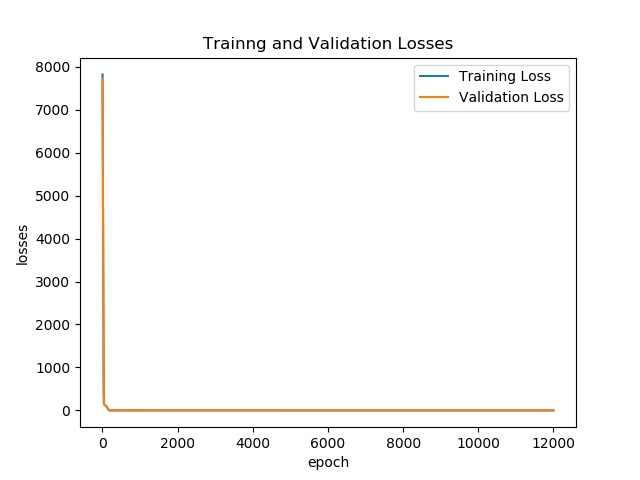
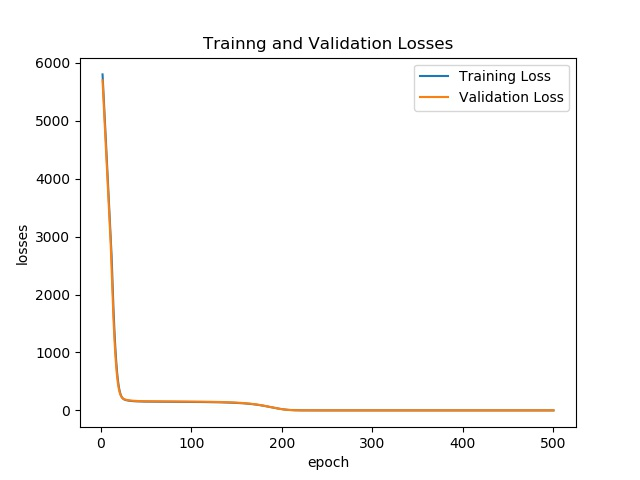
use torch rand() for random init (dont ask why!)

diff --git a/TCN/prey_pred_model/prey_pred_data.py b/TCN/prey_pred_model/prey_pred_data.py
@@ -1,6 +1,7 @@
 import math as m
 import numpy as np
 from scipy.integrate import odeint
+import torch
 
 
 def dfunc(y, t, a=0.25, b=0.12, c=0.0025, d=0.0013):
@@ -53,19 +54,14 @@ def prey_pred_data_randinit(examples, seq_length, yinit=[80, 50], t_range=(0.0, 
     u_max = 100
 
     for i in range(batch_no):
-        y0, y1 = u_min + (u_max-u_min)*np.random.rand(1), u_min + \
-            (u_max-u_min)*np.random.rand(1)
-        batch_data = prey_pred_data_constinit(batch_samples, seq_length, yinit=[
-                                    y0.item(), y1.item()], add_dt=add_dt)
+        yinit = [ u_min + (u_max-u_min)*torch.rand(1), u_min + (u_max-u_min)*torch.rand(1) ]
+        batch_data = prey_pred_data_constinit(batch_samples, seq_length, yinit=yinit, add_dt=add_dt)
         # Concatenate X, y output from prey_pred_data 
         batch_data = np.concatenate(
             (batch_data[0], batch_data[1].reshape(batch_samples, 2, 1)), axis=2)
         full_data[batch_samples*i:(batch_samples*(i+1))] = batch_data
     if examples % batch_no:
-        y0, y1 = u_min + (u_max-u_min)*np.random.rand(1), u_min + \
-            (u_max-u_min)*np.random.rand(1)
-        batch_data = prey_pred_data_constinit(
-            (examples % batch_no), seq_length, yinit=[y0.item(), y1.item()], add_dt=add_dt)
+        batch_data = prey_pred_data_constinit((examples % batch_no), seq_length, yinit=yinit, add_dt=add_dt)
         # Concatenate X, y output from prey_pred_data 
         batch_data = np.concatenate(
             (batch_data[0], batch_data[1].reshape(batch_samples, 2, 1)), axis=2)

diff --git a/TCN/prey_pred_model/prey_pred_sequence_randInit_denseNN.py b/TCN/prey_pred_model/prey_pred_sequence_randInit_denseNN.py
@@ -20,7 +20,7 @@ parser.add_argument('--dropout', type=float, default=0.0,
                     help='dropout applied to layers (default: 0.0)')
 parser.add_argument('--clip', type=float, default=-1,
                     help='gradient clip, -1 means no clip (default: -1)')
-parser.add_argument('--epochs', type=int, default=12000,
+parser.add_argument('--epochs', type=int, default=500,
                     help='upper epoch limit (default: 100)')
 parser.add_argument('--ksize', type=int, default=7,
                     help='kernel size (default: 7)')
